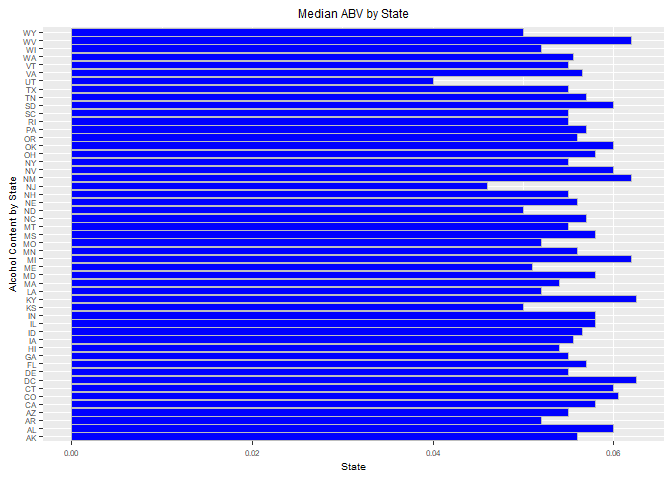
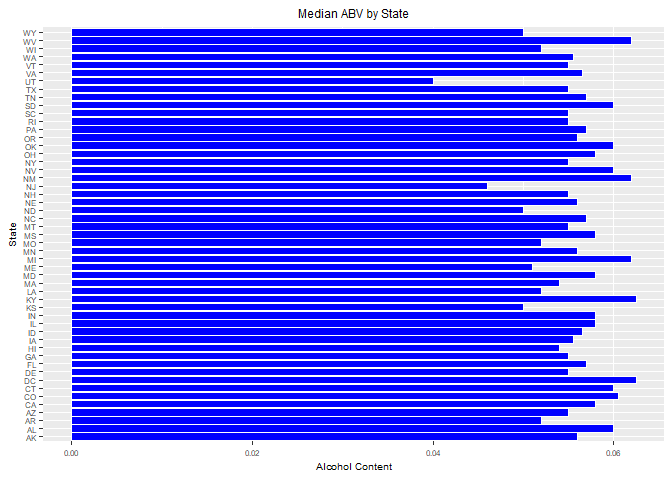
Added scatter plot and sorting information

Changed region(s): [[0.0938, 0.0625, 0.9375, 0.9062], [0.0, 0.375, 0.0312, 0.5938], [0.4688, 0.9688, 0.5938, 1.0]]

diff --git a/CaseStudy01_Paul_Madding.html b/CaseStudy01_Paul_Madding.html
@@ -532,7 +532,6 @@ colSums(is.na(brew_beer))</code></pre>
 medABV &lt;- tapply(brew_beer$ABV, brew_beer$State, function(x) median = median(x, na.rm = TRUE))
 #Compute the median international bitterness unit (IBU) by state
 medIBU &lt;- tapply(brew_beer$IBU, brew_beer$State, function(x) median = median(x, na.rm = TRUE))
-#sort ABV in desending order
 
 #plot a bar chart to compare ABV and IBU
 #convert AVB and IBU to a data frame
@@ -543,27 +542,32 @@ medIBUbar &lt;- data.frame(medIBU)
 medABVbar$State &lt;- rownames(medABVbar)
 medIBUbar$State &lt;- rownames(medIBUbar)
 
+#sort ABV in desending order
+medABVbar&lt;- medABVbar[order(medABV), ]
+
 #plot a bar chart for ABV
 ggplot(medABVbar, aes(x=State, y=medABV)) +
-  geom_bar(stat=&quot;identity&quot;, color=&quot;gray&quot;, fill=&quot;blue&quot;) +
-  xlab(&quot;Alcohol Content by State&quot;) + ylab(&quot;State&quot;) +
+  geom_bar(stat=&quot;identity&quot;, color=&quot;white&quot;, fill=&quot;blue&quot;) +
+  ylab(&quot;Alcohol Content&quot;) + xlab(&quot;State&quot;) +
   ggtitle(&quot;Median ABV by State&quot;) +
   coord_flip() + theme(plot.title = element_text(hjust=0.5), text = element_text(size=7.5))</code></pre>
[2 lines of base64/hex data omitted]
 <pre class="r"><code>#Remove SD from the list due to no IBU data
 medIBUbar &lt;- medIBUbar[-grep(&quot;SD&quot;, medIBUbar$State),]
 #plot a bar chart for IBU
 ggplot(medIBUbar, aes(x=State, y=medIBU)) +
-  geom_bar(stat=&quot;identity&quot;, color=&quot;gray&quot;, fill=&quot;blue&quot;) +
-  xlab(&quot;IBU by State&quot;) + ylab(&quot;State&quot;) +
+  geom_bar(stat=&quot;identity&quot;, color=&quot;white&quot;, fill=&quot;blue&quot;) +
+  ylab(&quot;IBU&quot;) + xlab(&quot;State&quot;) +
   ggtitle(&quot;Median IBU by State&quot;) +
   coord_flip() + theme(plot.title = element_text(hjust=0.5), text = element_text(size=7.5))</code></pre>
[2 lines of base64/hex data omitted]
 <ol start="5" style="list-style-type: decimal">
 <li><p>Which state has the maximum alcoholic (ABV) beer? Which state has the most bitter (IBU) beer?</p></li>
 <li><p>Summary statistics for the ABV variable.</p></li>
 <li><p>Is there an apparent relationship between the bitterness of the beer and its alcoholic content? Draw a scatter plot.</p></li>
 </ol>
+<pre class="r"><code>ggplot(brew_beer, aes(x = IBU, y = ABV)) + geom_point(na.rm=TRUE)+geom_smooth(method=lm,se=FALSE, na.rm=TRUE)</code></pre>
[1 lines of base64/hex data omitted]
 </div>
 <div id="conclusion" class="section level2">
 <h2>Conclusion</h2>

diff --git a/CaseStudy01_Paul_Madding.md b/CaseStudy01_Paul_Madding.md
@@ -249,7 +249,6 @@ colSums(is.na(brew_beer))
 medABV <- tapply(brew_beer$ABV, brew_beer$State, function(x) median = median(x, na.rm = TRUE))
 #Compute the median international bitterness unit (IBU) by state
 medIBU <- tapply(brew_beer$IBU, brew_beer$State, function(x) median = median(x, na.rm = TRUE))
-#sort ABV in desending order
 
 #plot a bar chart to compare ABV and IBU
 #convert AVB and IBU to a data frame
@@ -260,10 +259,13 @@ medIBUbar <- data.frame(medIBU)
 medABVbar$State <- rownames(medABVbar)
 medIBUbar$State <- rownames(medIBUbar)
 
+#sort ABV in desending order
+medABVbar<- medABVbar[order(medABV), ]
+
 #plot a bar chart for ABV
 ggplot(medABVbar, aes(x=State, y=medABV)) +
-  geom_bar(stat="identity", color="gray", fill="blue") +
-  xlab("Alcohol Content by State") + ylab("State") +
+  geom_bar(stat="identity", color="white", fill="blue") +
+  ylab("Alcohol Content") + xlab("State") +
   ggtitle("Median ABV by State") +
   coord_flip() + theme(plot.title = element_text(hjust=0.5), text = element_text(size=7.5))
 ```
@@ -275,8 +277,8 @@ ggplot(medABVbar, aes(x=State, y=medABV)) +
 medIBUbar <- medIBUbar[-grep("SD", medIBUbar$State),]
 #plot a bar chart for IBU
 ggplot(medIBUbar, aes(x=State, y=medIBU)) +
-  geom_bar(stat="identity", color="gray", fill="blue") +
-  xlab("IBU by State") + ylab("State") +
+  geom_bar(stat="identity", color="white", fill="blue") +
+  ylab("IBU") + xlab("State") +
   ggtitle("Median IBU by State") +
   coord_flip() + theme(plot.title = element_text(hjust=0.5), text = element_text(size=7.5))
 ```
@@ -288,6 +290,13 @@ ggplot(medIBUbar, aes(x=State, y=medIBU)) +
    6. Summary statistics for the ABV variable.
    
    7. Is there an apparent relationship between the bitterness of the beer and its alcoholic content? Draw a scatter plot.
+
+```r
+ggplot(brew_beer, aes(x = IBU, y = ABV)) + geom_point(na.rm=TRUE)+geom_smooth(method=lm,se=FALSE, na.rm=TRUE)
+```
+
+![](CaseStudy01_Paul_Madding_files/figure-html/scatter plot-1.png)<!-- -->
+
    
 ## Conclusion
 
